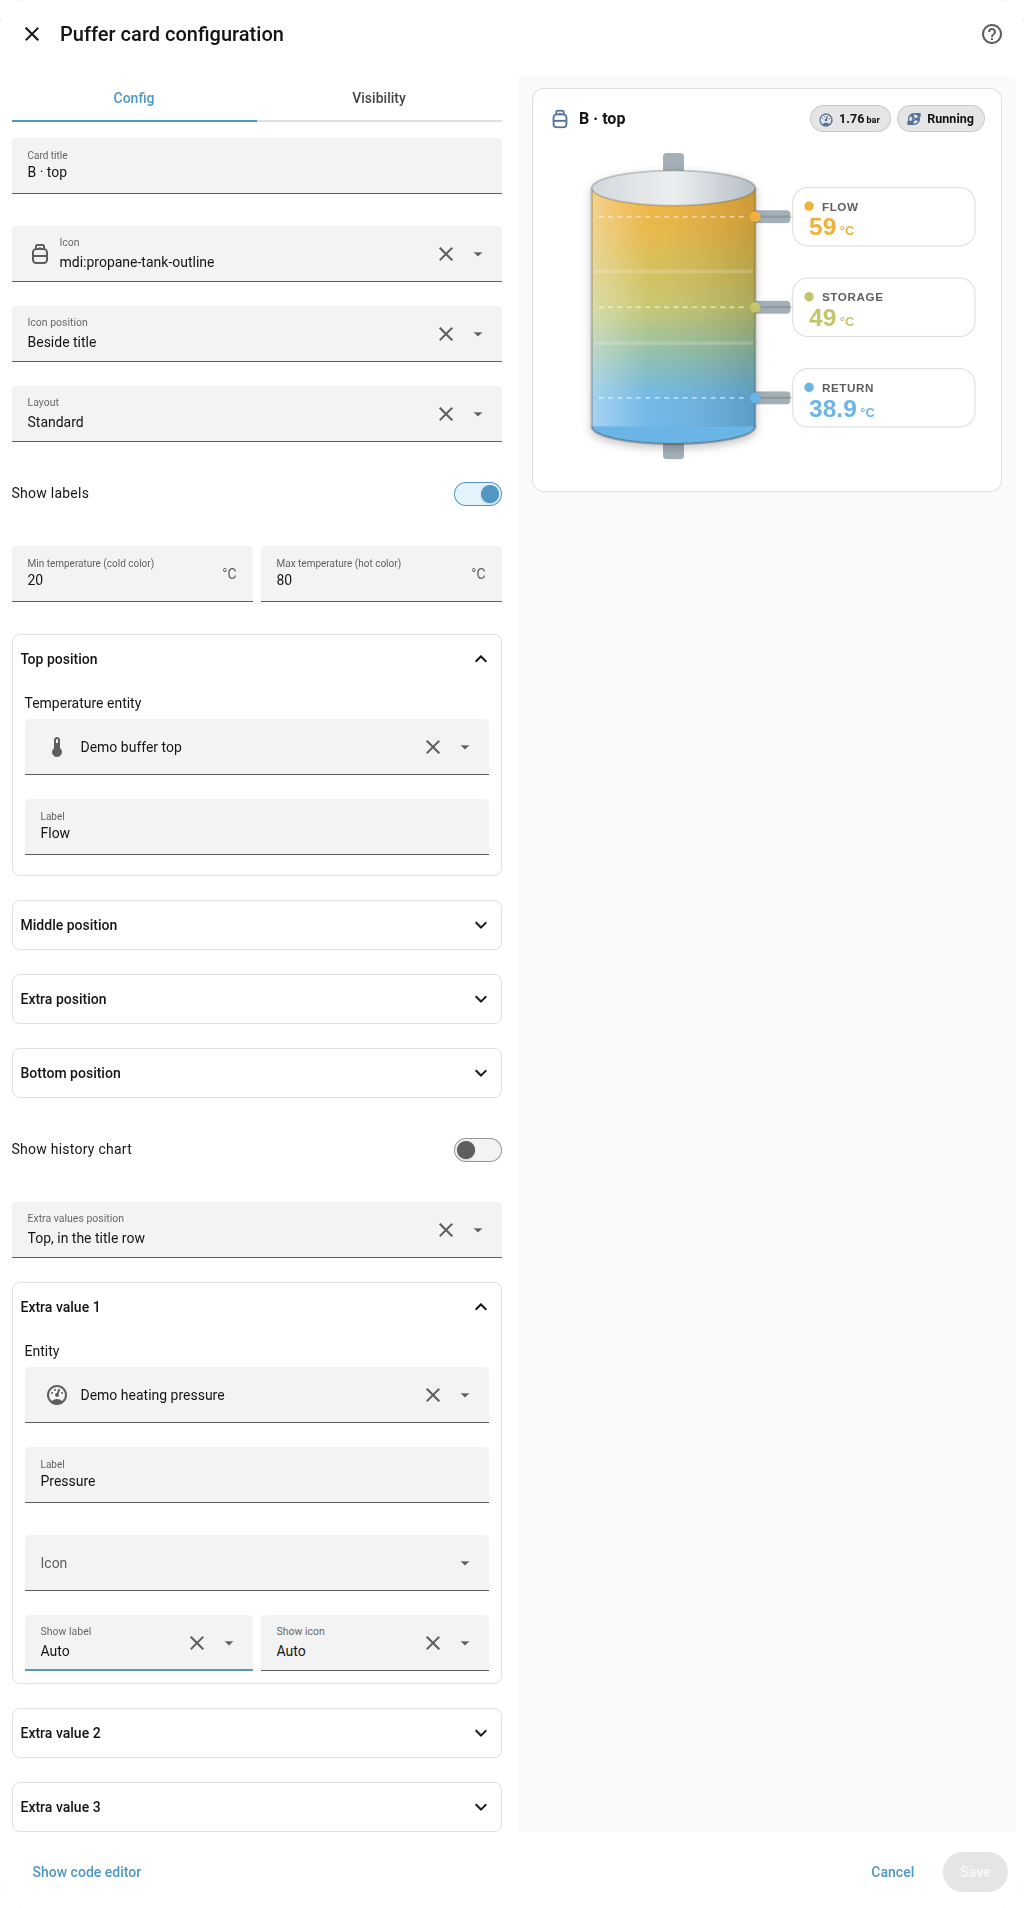
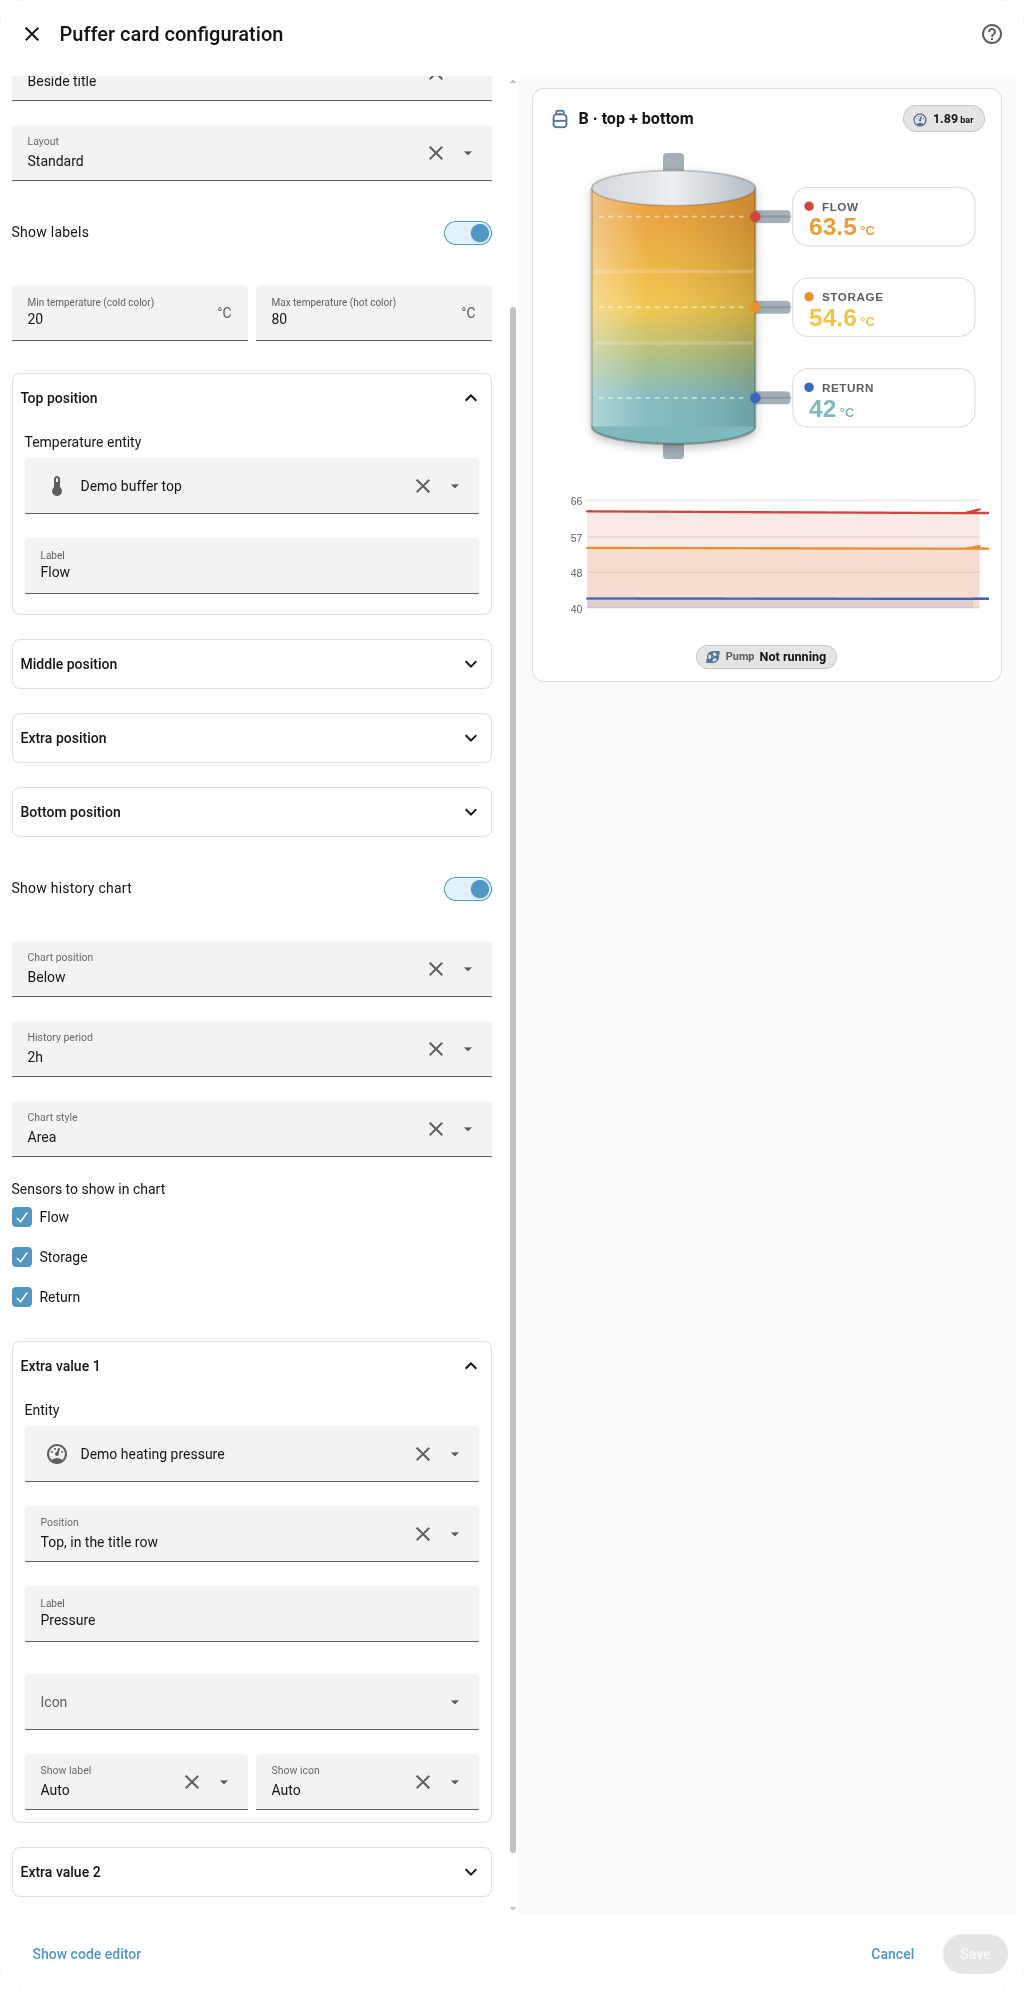
docs: document the per-value position of extra values

diff --git a/DOCS.md b/DOCS.md
@@ -20,6 +20,7 @@ Everything shown here can also be set from the card's visual editor; YAML is onl
   - [Between tank and chart](#between-tank-and-chart)
   - [Bottom](#bottom)
   - [Left](#left)
+  - [Mixing positions](#mixing-positions)
   - [Visual editor](#visual-editor)
 
 ## Layouts
@@ -181,14 +182,16 @@ bottom:
 
 Besides the temperatures, the card can show up to four values from any entity: the system pressure, a pump or a valve, a setpoint. They are shown as they are — no color scale, no chart — and formatted by Home Assistant itself, so numbers follow your locale and states are translated (`on` becomes *Running* for a pump). Click a value to open the entity's more-info dialog.
 
+Each value has its own position, so the pressure can sit in the title row and the pump at the bottom of the same card.
+
 ### Options
 
-`info_position` sets where the values go, `info` lists them:
+`info` lists the values, each with its own `position`:
 
 ```yaml
-info_position: top        # top, inside, between, bottom or left
 info:
   - entity: sensor.heating_pressure
+    position: top         # top, inside, between, bottom or left
     label: Pressure       # optional, defaults to the entity's name
     icon: mdi:gauge       # optional, defaults to the entity's icon
     show_label: true      # optional, see below
@@ -198,6 +201,7 @@ info:
 | Key | Default | Description |
 |---|---|---|
 | `entity` | – | Any entity |
+| `position` | `top` | `top`, `inside`, `between`, `bottom` or `left` |
 | `label` | entity name | Text shown next to the value, and as tooltip |
 | `icon` | entity icon | Icon; without one, Home Assistant picks it from the domain and device class |
 | `show_label` | depends on position | `true` / `false` to override the default |
@@ -205,7 +209,7 @@ info:
 
 Some positions have little room, so whether label and icon are shown depends on where the values go. Set `show_label` or `show_icon` on an entry to override it; when the label is hidden it is still shown as a tooltip.
 
-| `info_position` | Label | Icon |
+| `position` | Label | Icon |
 |---|---|---|
 | `top` | hidden | shown |
 | `inside` | shown, hidden in compact | hidden |
@@ -213,22 +217,13 @@ Some positions have little room, so whether label and icon are shown depends on 
 | `bottom` | shown | shown |
 | `left` | shown, hidden in compact | hidden |
 
-The examples below all use these two entries:
+Several values with the same position are grouped together, in the order of the list.
 
-```yaml
-info:
-  - entity: sensor.heating_pressure
-    label: Pressure
-  - entity: binary_sensor.circulation_pump
-    label: Pump
-    icon: mdi:pump
-```
-
-The pressure sensor has no `icon`: the gauge comes from its `pressure` device class.
+The examples below all use the same two entries — the pressure and the pump — placed at the same position, so each picture shows one position at a time; [Mixing positions](#mixing-positions) puts them in two different places. The pressure sensor has no `icon`: the gauge comes from its `pressure` device class.
 
 ### Top
 
-The default. The values sit in the title row, aligned right, so the card gets no taller. Labels are hidden by default to leave room for the title.
+The default position. The values sit in the title row, aligned right, so the card gets no taller. Labels are hidden by default to leave room for the title.
 
 <img src="images/info-top.png" alt="Extra values in the title row" width="380">
 
@@ -245,11 +240,12 @@ middle:
 bottom:
   entity: sensor.buffer_bottom
   label: Return
-info_position: top
 info:
   - entity: sensor.heating_pressure
+    position: top
     label: Pressure
   - entity: binary_sensor.circulation_pump
+    position: top
     label: Pump
     icon: mdi:pump
 ```
@@ -273,16 +269,17 @@ middle:
 bottom:
   entity: sensor.buffer_bottom
   label: Return
-info_position: inside
 info:
   - entity: sensor.heating_pressure
+    position: inside
     label: Pressure
   - entity: binary_sensor.circulation_pump
+    position: inside
     label: Pump
     icon: mdi:pump
 ```
 
-> **Compact layout:** the small tank only has room for one value, so only the **first** `info` entry is shown, without its label. The others are ignored; pick another position if you need more.
+> **Compact layout:** the small tank only has room for one value, so only the **first** entry with `position: inside` is shown, without its label. Further `inside` entries are ignored; entries at other positions are shown as usual.
 
 ### Between tank and chart
 
@@ -305,11 +302,12 @@ middle:
 bottom:
   entity: sensor.buffer_bottom
   label: Return
-info_position: between
 info:
   - entity: sensor.heating_pressure
+    position: between
     label: Pressure
   - entity: binary_sensor.circulation_pump
+    position: between
     label: Pump
     icon: mdi:pump
 ```
@@ -334,11 +332,12 @@ middle:
 bottom:
   entity: sensor.buffer_bottom
   label: Return
-info_position: bottom
 info:
   - entity: sensor.heating_pressure
+    position: bottom
     label: Pressure
   - entity: binary_sensor.circulation_pump
+    position: bottom
     label: Pump
     icon: mdi:pump
 ```
@@ -363,17 +362,48 @@ middle:
 bottom:
   entity: sensor.buffer_bottom
   label: Return
-info_position: left
 info:
   - entity: sensor.heating_pressure
+    position: left
     label: Pressure
   - entity: binary_sensor.circulation_pump
+    position: left
+    label: Pump
+    icon: mdi:pump
+```
+
+### Mixing positions
+
+Every value goes where its own `position` says: here the pressure in the title row and the pump at the bottom.
+
+<img src="images/info-mixed.png" alt="Pressure in the title row, pump at the bottom" width="380">
+
+```yaml
+type: custom:puffer-card
+name: Heating buffer
+icon: mdi:propane-tank-outline
+show_chart: true
+top:
+  entity: sensor.buffer_top
+  label: Flow
+middle:
+  entity: sensor.buffer_middle
+  label: Storage
+bottom:
+  entity: sensor.buffer_bottom
+  label: Return
+info:
+  - entity: sensor.heating_pressure
+    position: top
+    label: Pressure
+  - entity: binary_sensor.circulation_pump
+    position: bottom
     label: Pump
     icon: mdi:pump
 ```
 
 ### Visual editor
 
-The editor shows the position as a dropdown and the values as up to four sections, *Extra value 1* to *4*: one more appears as soon as the previous one is filled in. *Show label* and *Show icon* offer *Auto*, *Show* and *Hide*; *Auto* leaves the option out of the configuration, so the default of the chosen position applies.
+The editor shows the values as up to four sections, *Extra value 1* to *4*: one more appears as soon as the previous one is filled in. Each section has its own *Position*, right below the entity. *Show label* and *Show icon* offer *Auto*, *Show* and *Hide*; *Auto* leaves the option out of the configuration, so the default of that value's position applies.
 
 <img src="images/editor-info.png" alt="Extra values in the visual editor" width="512">

diff --git a/README.md b/README.md
@@ -13,7 +13,7 @@ heating and domestic hot water. It shows up to four temperatures at different
 heights and colors the tank according to the real thermal stratification.
 Extra values such as the system pressure or a pump state can sit alongside.
 
-<img src="https://raw.githubusercontent.com/giorgioparri/puffer-card/v1.6.0-beta.1/images/standard.png" alt="Puffer Card – standard layout" width="420">
+<img src="https://raw.githubusercontent.com/giorgioparri/puffer-card/v1.6.0-beta.2/images/standard.png" alt="Puffer Card – standard layout" width="420">
 
 ## Features
 
@@ -28,7 +28,7 @@ Extra values such as the system pressure or a pump state can sit alongside.
 - **Optional history chart** below or above the tank, with selectable period
   (2 h – 48 h), smooth area or line style, and per-sensor visibility.
 - Up to four **extra values** from any entity (pressure, pump, valve, ...),
-  placed in the title row, on the tank, beside it, or below it.
+  each placed on its own in the title row, on the tank, beside it, or below it.
 - Click any value to open the entity's **more-info** dialog.
 - Built-in **graphical editor** — no YAML required.
 - **Multilingual** UI (English / Italian, more welcome) following Home Assistant's language.
@@ -96,11 +96,12 @@ chart_sensors:          # which positions to include in the chart
   - middle
   - extra
   - bottom
-info_position: top      # top, inside, between, bottom or left
 info:                   # up to four extra values, any entity
   - entity: sensor.heating_pressure
+    position: top       # top, inside, between, bottom or left
     label: Pressure
   - entity: binary_sensor.circulation_pump
+    position: bottom
     label: Pump
     icon: mdi:pump
 ```
@@ -132,9 +133,9 @@ overlaps — layouts with 1 to 3 sensors are unaffected.
 | `chart_hours` | number | `24` | History period: `2`, `6`, `12`, `24` or `48` |
 | `chart_style` | string | `area` | `area` (filled) or `line` |
 | `chart_sensors` | list | all | Positions to include: `top`, `middle`, `extra`, `bottom` |
-| `info_position` | string | `top` | Where the extra values go: `top`, `inside`, `between`, `bottom` or `left` |
-| `info` | list | – | Up to four extra values: `{ entity, label, icon, show_label, show_icon }` |
+| `info` | list | – | Up to four extra values: `{ entity, position, label, icon, show_label, show_icon }` |
 | `info[].entity` | string | – | Any entity |
+| `info[].position` | string | `top` | Where this value goes: `top`, `inside`, `between`, `bottom` or `left` |
 | `info[].label` | string | entity name | Label shown next to the value, and as tooltip |
 | `info[].icon` | string | entity icon | Icon shown next to the value |
 | `info[].show_label` | boolean | by position | Override whether the label is shown |
@@ -143,21 +144,22 @@ overlaps — layouts with 1 to 3 sensors are unaffected.
 Whether an extra value shows its label and icon by default depends on the
 position, since some have little room. The defaults for each position, and
 the limits of `inside` and `left` in the compact layout, are in
-[DOCS.md](https://github.com/giorgioparri/puffer-card/blob/v1.6.0-beta.1/DOCS.md#extra-values).
+[DOCS.md](https://github.com/giorgioparri/puffer-card/blob/v1.6.0-beta.2/DOCS.md#extra-values).
 In the visual editor a new *Extra value* section appears as soon as the
 previous one is filled in, up to four.
 
 ## Extra values
 
 Up to four values from any entity, shown as Home Assistant formats them —
-numbers in your locale, states translated — without a color scale. Here in the
-title row, the default position, where they don't make the card any taller:
+numbers in your locale, states translated — without a color scale. Each value
+has its own position: here the pressure sits in the title row, the default,
+and the pump at the bottom of the card.
 
-<img src="https://raw.githubusercontent.com/giorgioparri/puffer-card/v1.6.0-beta.1/images/info-top.png" alt="Extra values in the title row" width="420">
+<img src="https://raw.githubusercontent.com/giorgioparri/puffer-card/v1.6.0-beta.2/images/info-mixed.png" alt="Pressure in the title row, pump at the bottom" width="420">
 
 ## Examples
 
-[DOCS.md](https://github.com/giorgioparri/puffer-card/blob/v1.6.0-beta.1/DOCS.md)
+[DOCS.md](https://github.com/giorgioparri/puffer-card/blob/v1.6.0-beta.2/DOCS.md)
 shows every layout with the configuration that produces it: standard and
 compact, values only, two and four sensors, the history chart, and the extra
 values in each of their five positions, plus the visual editor.

diff --git a/CHANGELOG.md b/CHANGELOG.md
@@ -8,9 +8,9 @@ All notable changes to this project are documented in this file. The format is b
 
 ### Added
 - Extra values: up to four values from any entity — the system pressure, a pump, a valve — shown next to the temperatures. They are formatted by Home Assistant itself, so numbers follow your locale and states are translated, and they stay out of the color scale and the chart. Click one to open its more-info dialog. ([#13](https://github.com/giorgioparri/puffer-card/issues/13))
-- `info_position` places them in the title row (`top`, the default), on the tank (`inside`), between the tank and the chart (`between`), at the bottom of the card (`bottom`) or rotated along the left side of the tank (`left`). `top`, `inside` and `left` don't make the card any taller.
+- Each value has its own `position`: in the title row (`top`, the default), on the tank (`inside`), between the tank and the chart (`between`), at the bottom of the card (`bottom`) or rotated along the left side of the tank (`left`). Values can be spread over different positions, and `top`, `inside` and `left` don't make the card any taller.
 - `show_label` and `show_icon` on each value override whether its label and icon are shown; by default this depends on the position, and a hidden label is still shown as a tooltip. Without an `icon`, Home Assistant picks one from the entity's domain and device class.
-- Everything above can be set from the visual editor: a position dropdown and up to four *Extra value* sections, a new one appearing as soon as the previous one is filled in.
+- Everything above can be set from the visual editor: up to four *Extra value* sections, each with its own position, a new one appearing as soon as the previous one is filled in.
 - [DOCS.md](https://github.com/giorgioparri/puffer-card/blob/main/DOCS.md) shows every layout with the configuration that produces it.
 
 ### Changed
